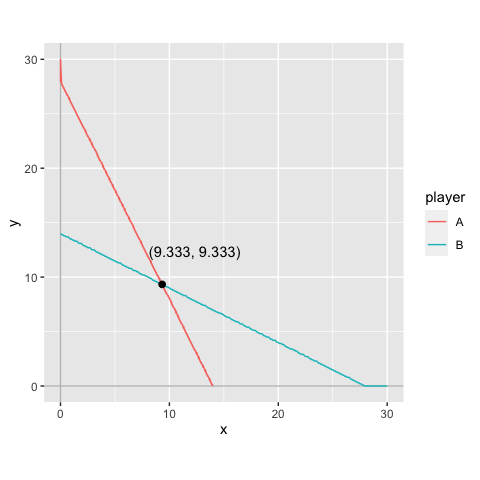
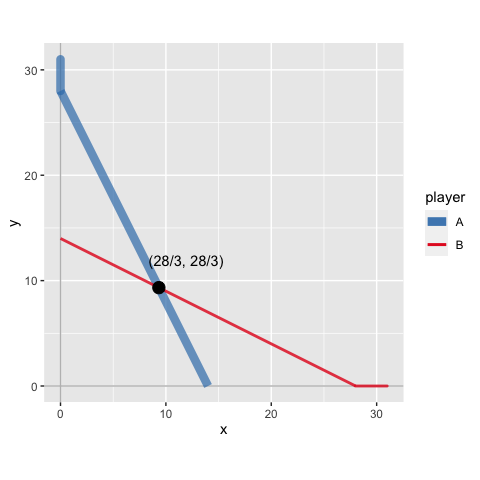
version 0.0.2

diff --git a/README.md b/README.md
@@ -20,10 +20,10 @@ Overview
 The goal of `rgamer` is to help students learn Game Theory using R. The
 functions provided by the package not only solve basic games such as
 two-person normal-form games but also provides the users with visual
-displays that highlight some aspects of the games — game matrices, best
-response correspondence, etc. In addition, it suggests some numerical
+displays that highlight some aspects of the games — game tables, best
+response correspondences, etc. In addition, it suggests some numerical
 solutions for games of which it is difficult — or even seems impossible
-— to derive a closed-form analytic solution.
+— to derive a closed-form analytical solution.
 
 Installation
 ------------
@@ -43,43 +43,71 @@ You can install the development version from
     # install.packages("devtools")
     devtools::install_github("yukiyanai/rgamer")
 
-Example
--------
+Examples
+--------
 
     library(rgamer)
 
 ### Example 1
 
-An example of a normal-form game:
+An example of a normal-form game (prisoner’s dilemma).
 
--   Player: {Kicker, GK }
--   Strategy: {(left, right), (left, right)}
--   Payoff: {(-1, 1, 1, -1), (1, -1, -1, 1)}
+-   Player: {Kamijo, Yanai }
+-   Strategy: {(Stays silent, Betrays), (Stays silent, Betrays)}
+-   Payoff: {(-1, 0, -3, -2), (-1, -3, 0, -2)}
 
 First, you define the game by `normal_form()`:
 
     game1 <- normal_form(
-      players = c("Kicker", "GK"),
-      s1 = c("left", "right"), 
-      s2 = c("left", "right"),
-      p1 = c(-1, 1, 1, -1), 
-      p2 = c(1, -1, -1, 1))
+      players = c("Kamijo", "Yanai"),
+      s1 = c("Stays silent", "Betrays"), 
+      s2 = c("Stays silent", "Betrays"), 
+      p1 = c(-1,  0, -3, -2), 
+      p2 = c(-1, -3,  0, -2))
 
 Then, you can pass it to `solve_nfg()` function to get the table of the
-game (not shown here) and the Nash equilibrium.
+game and the Nash equilibrium.
 
-    s_game1 <- solve_nfg(game1, mixed = TRUE, show_table = FALSE)
-    #> Pure strategy NE does not exist.
-    #> Mixed-strategy NE: [(1/2, 1/2), (1/2, 1/2)]
+    s_game1 <- solve_nfg(game1)
+
+    #> Pure-strategy NE: (Betrays, Betrays)
+
+![](figs/eg1_table.png)
+
+### Example 2
+
+An example of a coordination game.
+
+-   Player: {Kamijo, Yanai }
+-   Strategy: {(Stag, Hare), (Stag, Hare)}
+-   Payoff: {(10, 8, 0, 7), (10, 0, 8, 7)}
+
+Define the game by `normal_form()`:
+
+    game2 <- normal_form(
+      players = c("Kamijo", "Yanai"),
+      s1 = c("Stag", "Hare"), 
+      s2 = c("Stag", "Hare"), 
+      p1 = c(10, 8, 0, 7), 
+      p2 = c(10, 0, 8, 7))
+
+Then, you can pass it to `solve_nfg()` function to get NEs. Set
+`mixed = TRUE` to find mixed-strategy NEs well.
+
+    s_game2 <- solve_nfg(game2, mixed = TRUE, show_table = FALSE)
+    #> Pure-strategy NE: (Stag, Stag)(Hare, Hare)
+    #> Mixed-strategy NE: [(7/9, 2/9), (7/9, 2/9)]
+    #> #  The obtained mixed-strategy NE might be only a part of the solutions.
+    #> #  Please examine br_plot (best response plot) carefully.
 
 For a 2-by-2 game, you can plot the best response correspondences as
 well.
 
-    s_game1$br_plot
+    s_game2$br_plot
 
-![](man/figures/README-unnamed-chunk-7-1.png)<!-- -->
+![](man/figures/README-unnamed-chunk-10-1.png)<!-- -->
 
-### Example 2
+### Example 3
 
 An example of a normal-form game:
 
@@ -92,7 +120,7 @@ An example of a normal-form game:
 You can define a game by specifying payoff functions as character
 vectors using `normal_form()`:
 
-    game2 <- normal_form(
+    game3 <- normal_form(
       players = c("A", "B"),
       p1 = "-x^2 + (28 - y) * x",
       p2 = "-y^2 + (28 - x) * y",
@@ -103,13 +131,14 @@ vectors using `normal_form()`:
 Then, you can pass it to `solve_nfg()`, which displays the best response
 correspondences by default.
 
-    s_game2 <- solve_nfg(game2)
-
-![](man/figures/README-unnamed-chunk-9-1.png)<!-- -->
-
+    s_game3 <- solve_nfg(game3)
     #> NE: (28/3, 28/3)
+    #> #  The obtained NE might be only a part of the solutions.
+    #> #  Please examine br_plot (best response plot) carefully.
 
-### Example 3
+![](man/figures/README-unnamed-chunk-12-1.png)<!-- -->
+
+### Example 4
 
 An example of a normal-form game:
 
@@ -127,7 +156,7 @@ You can define a normal-form game by specifying payoffs by R functions.
     f_y <- function(x, y, s, t) {
       -y^s + (t - x) * y
     }
-    game3 <- normal_form(
+    game4 <- normal_form(
       players = c("A", "B"),
       p1 = f_x,
       p2 = f_y,
@@ -141,24 +170,27 @@ treated as constants by arguments `cons1` and `cons2`, each of which
 accepts a named list. In addition, you can suppress the plot of best
 responses by `plot = FALSE`.
 
-    s_game3 <- solve_nfg(
-      game = game3,
+    s_game4 <- solve_nfg(
+      game = game4,
       cons1 = list(a = 2, b = 28),
       cons2 = list(s = 2, t = 28),
       plot = FALSE
     )
     #> approximated NE: (9.3, 9.3)
+    #> #  The obtained NE might be only a part of the solutions.
+    #> #  Please examine br_plot (best response plot) carefully.
 
-You can increase the precision of approximation by `precision` (default
-is `1`), which takes a natural number.
+You can increase the precision of approximation by `precision`, which
+takes a natural number (default is `precision = 1`).
 
-    s_game3b <- solve_nfg(
-      game = game3,
+    s_game5 <- solve_nfg(
+      game = game4,
       cons1 = list(a = 2, b = 28),
       cons2 = list(s = 2, t = 28),
       precision = 3
     )
-
-![](man/figures/README-unnamed-chunk-12-1.png)<!-- -->
-
     #> approximated NE: (9.333, 9.333)
+    #> #  The obtained NE might be only a part of the solutions.
+    #> #  Please examine br_plot (best response plot) carefully.
+
+![](man/figures/README-unnamed-chunk-15-1.png)<!-- -->

diff --git a/NEWS.md b/NEWS.md
@@ -1,3 +1,11 @@
+# rgamer 0.0.2
+
+Now `game_table()`, which is called by `solve_nfg()` to display game tables, automatically adjusts the cell size of the table displayed unless `cell_width` is specified by the user.
+
+In br\_plot (the plot of best response correspondences), two players' best responses are drawn by the lines with different width (ggplot's size) so that we can distinguish the two even when they overlap.
+
+The message that warns users that the NE obtained by `solve_nfg()` might be a part of the solutions and asks them to examine the br\_plot.
+
 # rgamer 0.0.1
 
 The first, experimental version is out.
